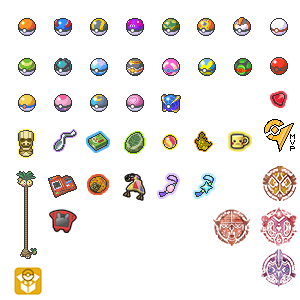
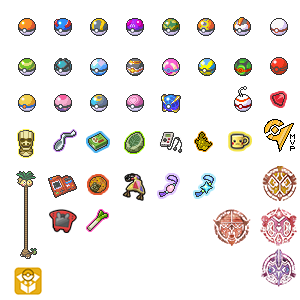
Add moderator ball flairs, commit sloth's flair

Changed region(s): [[0.78, 0.27, 0.84, 0.39], [0.54, 0.42, 0.63, 0.51], [0.27, 0.69, 0.36, 0.78]]

diff --git a/src/userflair.css b/src/userflair.css
@@ -495,6 +495,18 @@
     background-position: -153px -128px;
 }
 
+/* RustRider Snooball 
+--------------------------------------------------------------------------------*/
+.author[href$="/RustRider"]~.flair:after {
+    background-position: -228px -86px;
+}
+
+/* Jaksida Farfetch'd
+--------------------------------------------------------------------------------*/
+.author[href$="/jaksida"]~.flair:after {
+    background-position: -83px -207px;
+}
+
 /********************************************************************************
 * CONTEST FLAIRS
 *********************************************************************************/
